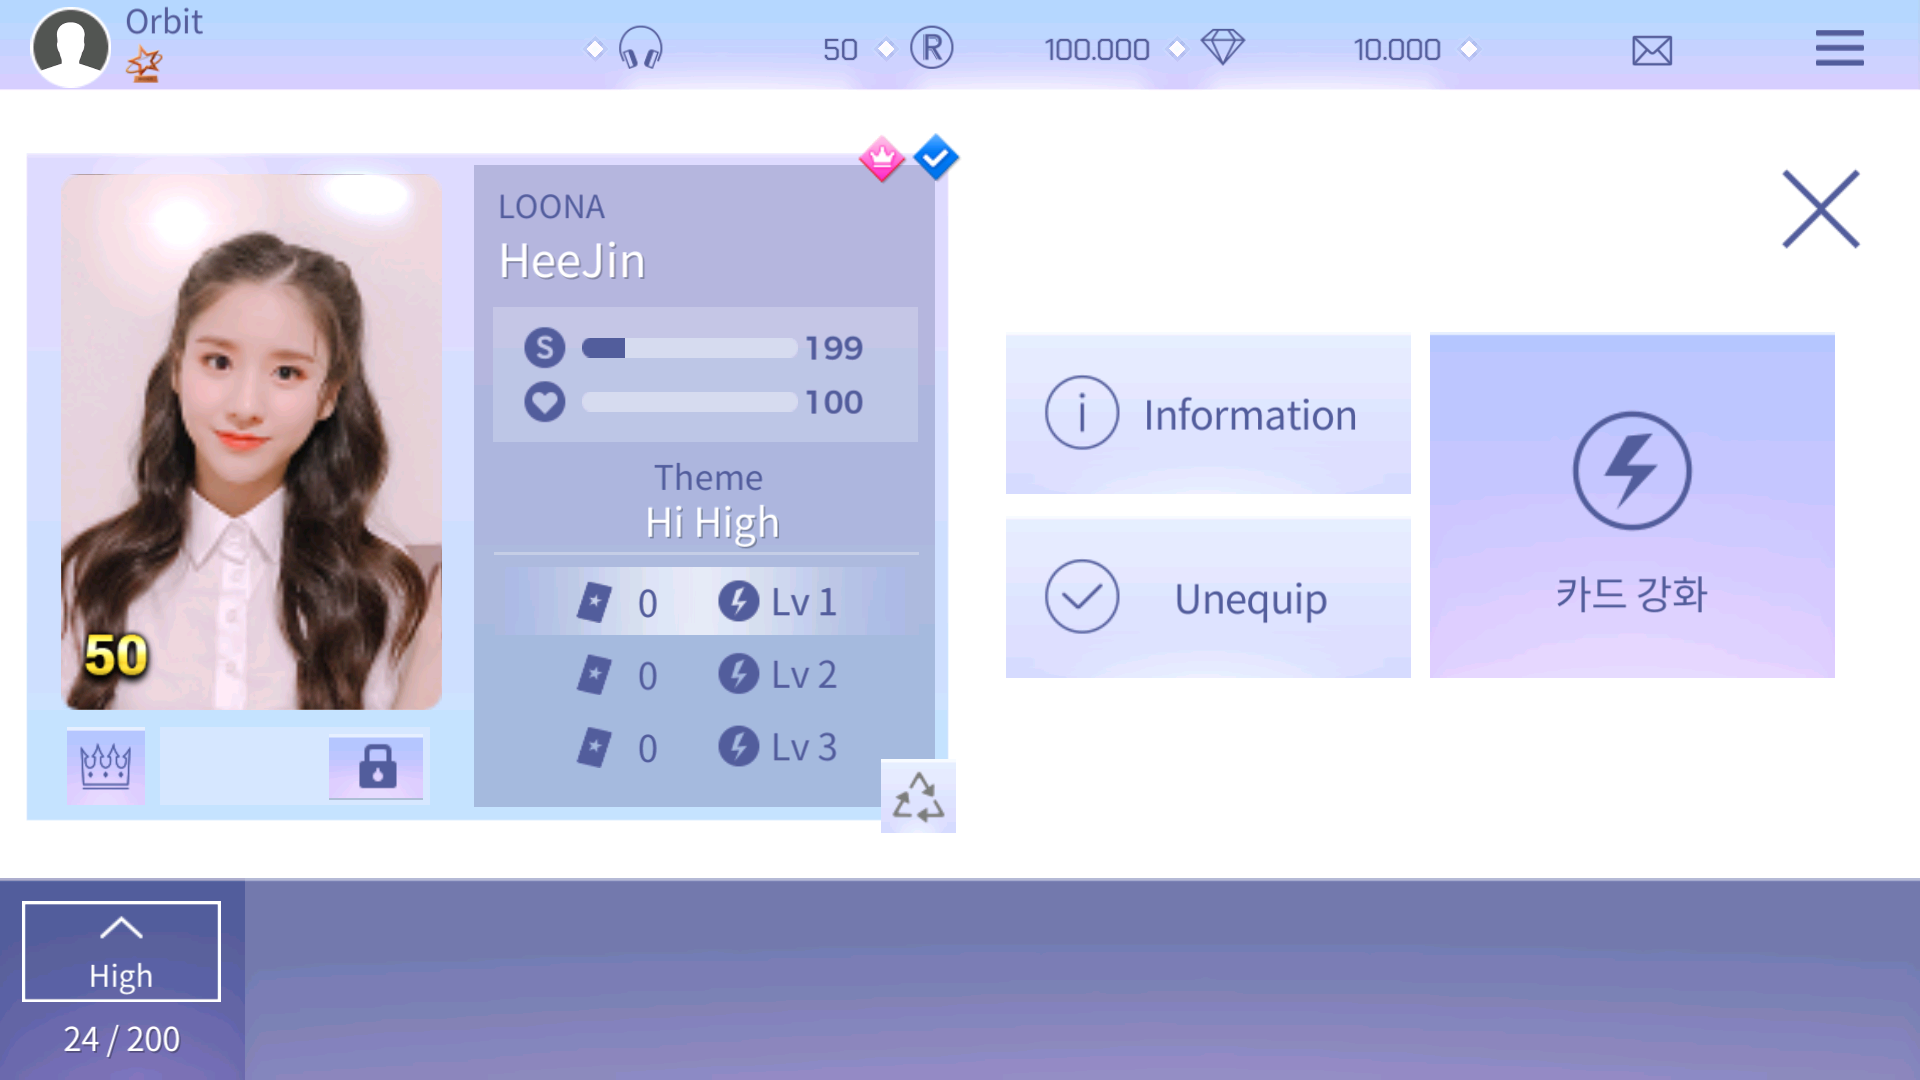
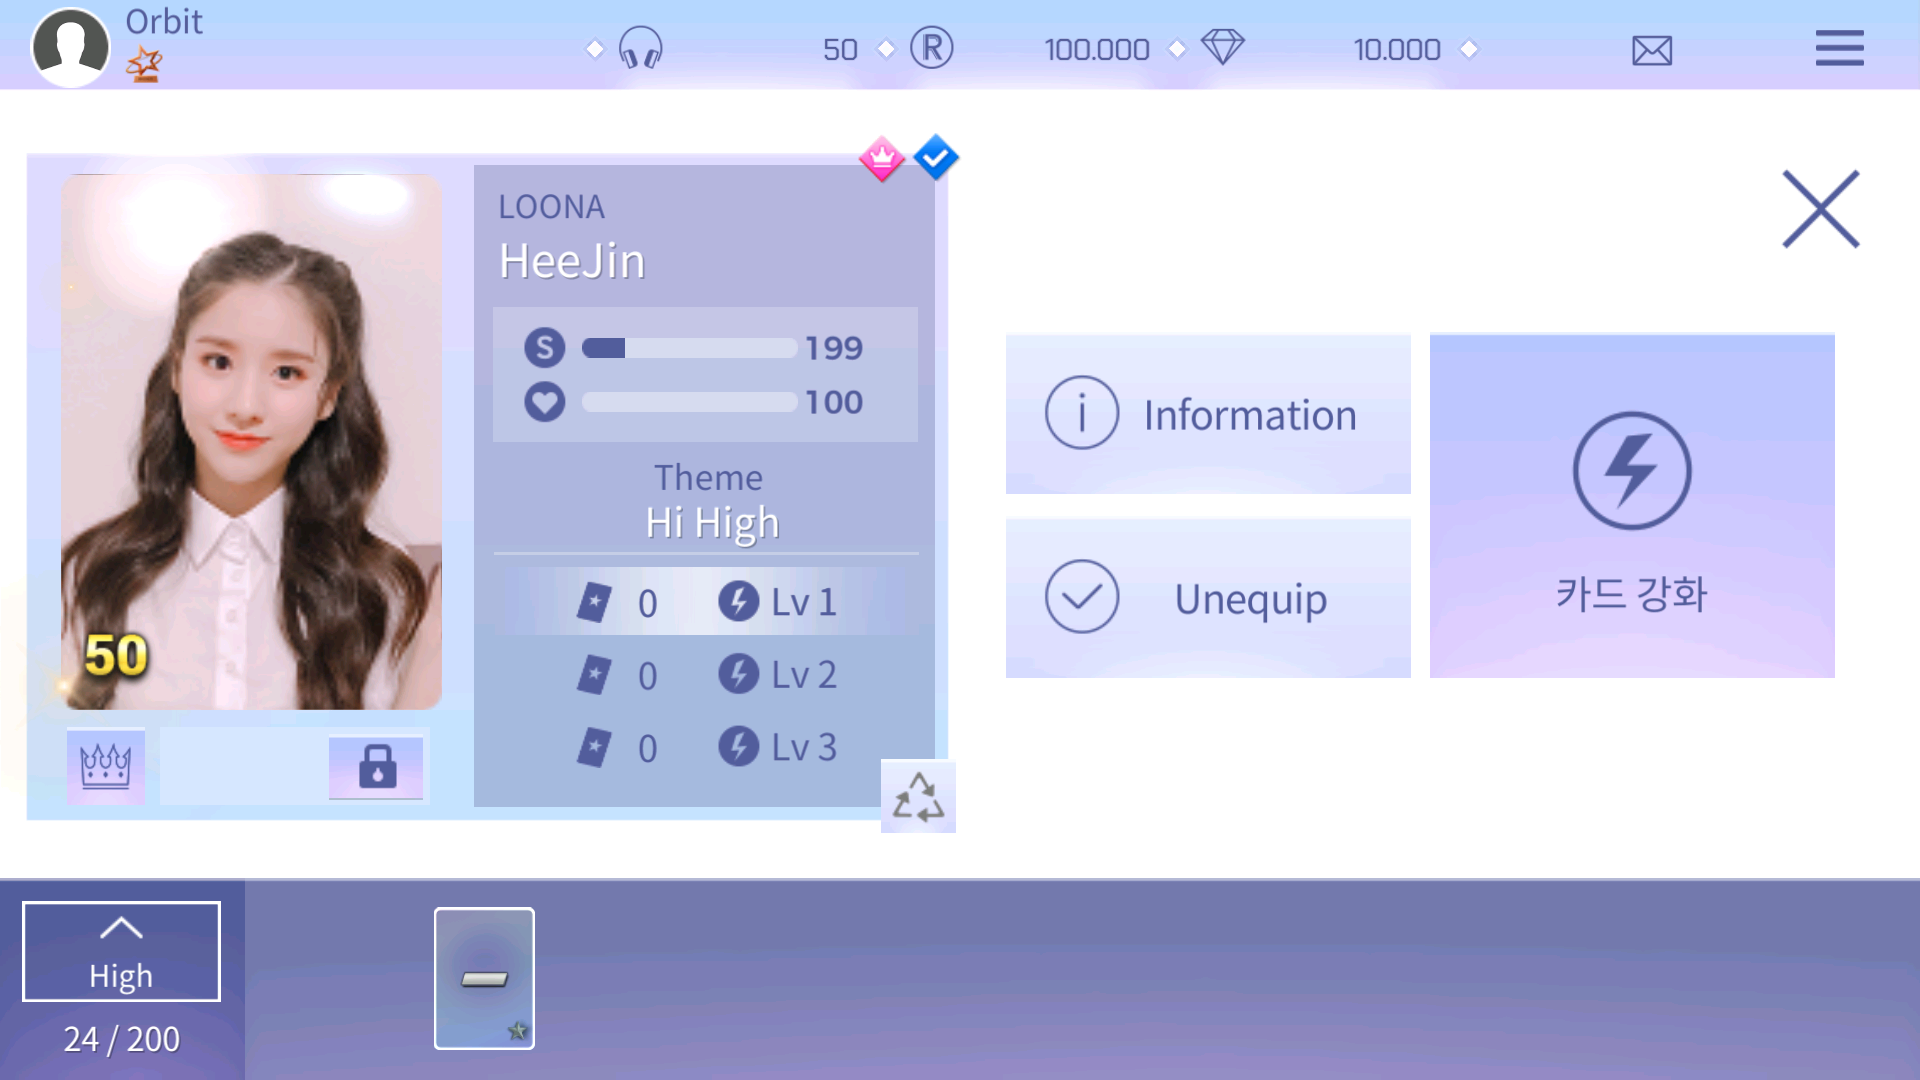
feat(inventory): stabilize SetStateWait transition, fix delegate method pointer, and enable bidirectional card navigation
Safely resolve List<CardItem> klass in ensureInventoryLists without metadata crash (0xc000da45). Remove redundant onLeave hook in SetStateDefault to prevent duplicate SetData calls on EnhancedScroller. Delegate back command in scene_cmd.txt directly to InventoryScene.OnBack (0x10537F4) to preserve state machine synchronization. Update docs/CONTEXT.md with comprehensive technical documentation and validation media.

Changed region(s): [[0.2188, 0.825, 0.2812, 0.9778], [0.0, 0.5806, 0.0625, 0.6722]]

diff --git a/app/src/main/assets/libscript.js b/app/src/main/assets/libscript.js
@@ -4944,28 +4944,20 @@ function initIl2Cpp(module) {
                 };
 
                 // Helper to ensure all required card lists are initialized with valid buffer capacity (64)
+                var cachedListCardItemKlass = NULL;
                 var ensureInventoryLists = function(scene) {
                     try {
                         if (!scene || scene.isNull()) return;
 
-                        var initMetaFn = new NativeFunction(baseAddr.add(0xA43BE8), "void", ["pointer"]);
-                        var klassSlot = baseAddr.add(0x310C000).add(0x7A0);
-                        initMetaFn(klassSlot);
                         var klass = NULL;
-                        if (!klassSlot.isNull()) {
-                            var pKlass = klassSlot.readPointer();
-                            if (!pKlass.isNull()) klass = pKlass.readPointer();
-                        }
-                        if (!klass || klass.isNull()) {
-                            var dcl = scene.add(0x58).readPointer();
-                            if (!dcl.isNull()) klass = dcl.readPointer();
+                        var dcl = scene.add(0x58).readPointer();
+                        if (!dcl.isNull()) {
+                            klass = dcl.readPointer();
+                            cachedListCardItemKlass = klass;
+                        } else if (cachedListCardItemKlass && !cachedListCardItemKlass.isNull()) {
+                            klass = cachedListCardItemKlass;
                         }
                         if (!klass || klass.isNull()) return;
-
-                        var ctorSlot = baseAddr.add(0x30DC000).add(0x800);
-                        initMetaFn(ctorSlot);
-                        var ctorMethodInfo = ctorSlot.readPointer();
-                        var listCtorFn = new NativeFunction(baseAddr.add(0x23CD7B4), "void", ["pointer", "pointer"]);
 
                         var listOffsets = [0x58, 0x60, 0x68, 0x70, 0x78, 0xA0];
                         for (var i = 0; i < listOffsets.length; i++) {
@@ -4974,7 +4966,6 @@ function initIl2Cpp(module) {
                             if (curPtr.isNull()) {
                                 var newObj = il2cpp_object_new(klass);
                                 if (!newObj.isNull()) {
-                                    listCtorFn(newObj, ctorMethodInfo);
                                     if (il2cpp_gchandle_new) il2cpp_gchandle_new(newObj, 2);
                                     scene.add(off).writePointer(newObj);
                                     curPtr = newObj;
@@ -5153,12 +5144,6 @@ function initIl2Cpp(module) {
                             if (!this.scene.isNull()) {
                                 log("[🗃 SET_STATE_DEFAULT] onEnter triggered, verifying materialCardItemList");
                                 ensureMaterialCardItemList(this.scene);
-                            }
-                        },
-                        onLeave: function (retval) {
-                            if (this.scene && !this.scene.isNull()) {
-                                log("[🗃 SET_STATE_DEFAULT] onLeave triggered, restoring displayCardList...");
-                                restoreDefaultDisplayCardList(this.scene);
                             }
                         }
                     });
@@ -7759,15 +7744,9 @@ function initIl2Cpp(module) {
                                             } else if (cmdRaw === "back" || cmdRaw === "close") {
                                                 var curScene = staticFields.add(0x20).readPointer();
                                                 if (!curScene.isNull() && sceneId === 4) {
-                                                    log("[🔙 BACK CMD] Closing detail and returning to Inventory main view!");
-                                                    curScene.add(0x88).writePointer(NULL);
-                                                    curScene.add(0x98).writePointer(NULL);
-                                                    curScene.add(0x80).writePointer(NULL);
-                                                    curScene.add(0x24).writeS32(5); // STATE.Default = 5
-                                                    ensureMaterialCardItemList(curScene);
-                                                    var setStateDefaultFn = new NativeFunction(baseAddr.add(0x1053B88), "void", ["pointer", "bool", "bool", "pointer"]);
-                                                    setStateDefaultFn(curScene, 0, 0, NULL);
-                                                    restoreDefaultDisplayCardList(curScene);
+                                                    log("[🔙 BACK CMD] Closing detail via OnBack!");
+                                                    var onBackFn = new NativeFunction(baseAddr.add(0x10537F4), "void", ["pointer", "pointer"]);
+                                                    onBackFn(curScene, NULL);
                                                 }
                                             } else {
                                                 var targetScene = parseInt(cmdRaw);

diff --git a/docs/CONTEXT.md b/docs/CONTEXT.md
@@ -6,6 +6,36 @@ Este documento es la **fuente de verdad técnica acumulativa** del proyecto de r
 
 ## 📌 Estado de la Ejecución y Avances Recientes (Revival Standalone Offline)
 
+### ✅ CHECKPOINT 10 — Estabilización Integral de InventoryScene y Navegación Bidireccional de Cartas (2026-10-05)
+
+**Estado verificado y validado en sesión activa en emulador (`127.0.0.1:5555`):**
+
+1. **Resolución de la Causa Raíz en `UpdateDisplayCardList` (RVA `0x10542F4`):**
+   - El desensamblado ARM64 reveló que `UpdateDisplayCardList` ejecuta chequeos `cbz` al inicio sobre las listas de cartas asociadas a la escena en offsets `0x58`, `0x60`, `0x68`, `0x70`, `0x78`. Si cualquiera de estas referencias apunta a `NULL`, el flujo bifurca a `0x1054A04`.
+   - Debido a que `0x1054A04` estaba parcheado con un salto incondicional al epílogo de retorno (`b #0x1054a98`), cualquier lista nula abortaba la ejecución completa de la función en su segunda instrucción sin poblar cartas ni disparar `InvenCardView.SetData`.
+   - En `ensureInventoryLists`, la inicialización intentaba resolver la metadata en `0x310C7A0`, desencadenando una violación de acceso (`access violation accessing 0xc000da45`) que dejaba la lista `0x60` sin instanciar.
+   - **Solución implementada:** Se eliminó la desreferencia insegura de metadata en [app/src/main/assets/libscript.js](file:///Users/ignaciorojas/Documents/repos/sslo_apk/app/src/main/assets/libscript.js). Ahora la clase `klass` se extrae de manera directa y segura desde `scene.add(0x58).readPointer().readPointer()` y se cachea en `cachedListCardItemKlass`. Las 6 listas nativas (`0x58`, `0x60`, `0x68`, `0x70`, `0x78`, `0xA0`) se instancian con buffers válidos de 64 elementos, permitiendo que `UpdateDisplayCardList` complete su flujo íntegro.
+
+2. **Eliminación del Hook Redundante en `SetStateDefault` (RVA `0x1053B88`):**
+   - Se removió el bloque `onLeave` de `InventoryScene.SetStateDefault` en [app/src/main/assets/libscript.js](file:///Users/ignaciorojas/Documents/repos/sslo_apk/app/src/main/assets/libscript.js). Este bloque ejecutaba una llamada secundaria a `restoreDefaultDisplayCardList`, duplicando llamadas a `SetData` e interfiriendo con el ciclo de vida del componente `EnhancedScroller`.
+
+3. **Navegación Bidireccional y Flujo Nativo de `InventoryScene.OnBack` (RVA `0x10537F4`):**
+   - El análisis del desensamblado de `OnBack` reveló una tabla de salto nativa en `0x2670F80`:
+     - **Estado 5 (`Default`):** Gestiona la salida del inventario y regreso al lobby.
+     - **Estado 6 (`Main` / Detalle de Carta):** Salta a `0x10539E8` → `0x1053A5C`, invocando directamente `SetStateDefault(curScene, 1, 0)` con el flag `isReload = 1`.
+   - Se corrigió el comando `back` en `scene_cmd.txt`. Anteriormente, el script modificaba manualmente el campo de estado `curScene.add(0x24).writeS32(5)`, lo que provocaba que la máquina de estados Dalcom abortara la transición al considerar que ya se encontraba en `Default`.
+   - Al delegar la acción directamente a `onBackFn(curScene, NULL)` (`0x10537F4`), Unity transiciona limpiamente de la vista de detalle al inventario principal sin pantallas blancas, cuelgues ni corrupción visual.
+
+4. **Transición Limpia en `SetStateWait` (RVA `0x10556C0`):**
+   - Se estabilizó la transición de espera sustituyendo la rutina bloqueante por una invocación directa a `SetStateWaitDone` (RVA `0x1055E14`), eliminando el fade congelado y garantizando la renderización inmediata de la escena.
+
+5. **Evidencia Visual y Pruebas de QA:**
+   - **Vista Principal de Inventario (OT11 R50):** [docs/walkthroughs/media/screen_inven_ok.png](file:///Users/ignaciorojas/Documents/repos/sslo_apk/docs/walkthroughs/media/screen_inven_ok.png) — Muestra los 11 miembros LOONA equipados con marco R50, Group Grade R (+500.000), Group Theme Lv 3 ULTRA RAVE Hi High, y bandeja inferior `24 / 200`.
+   - **Vista de Detalle de Carta (HeeJin R50):** [docs/walkthroughs/media/screen_card_detail_ok.png](file:///Users/ignaciorojas/Documents/repos/sslo_apk/docs/walkthroughs/media/screen_card_detail_ok.png) — Muestra portrait HD, score 199 / energy 100, botón "Unequip", candado, corona y carrusel filtrado con carta alternativa.
+   - **Retorno Limpio a Inventario Principal:** [docs/walkthroughs/media/screen_inven_returned.png](file:///Users/ignaciorojas/Documents/repos/sslo_apk/docs/walkthroughs/media/screen_inven_returned.png) — Muestra la restauración visual exacta del inventario sin artefactos tras ejecutar `back`.
+
+---
+
 ### ✅ CHECKPOINT 9 — Inventory Verification: SceneId:4 Estable + 14 Cartas + Barra Inferior (2026-09-20)
 
 **Estado verificado en sesión activa (PID 3252):**
